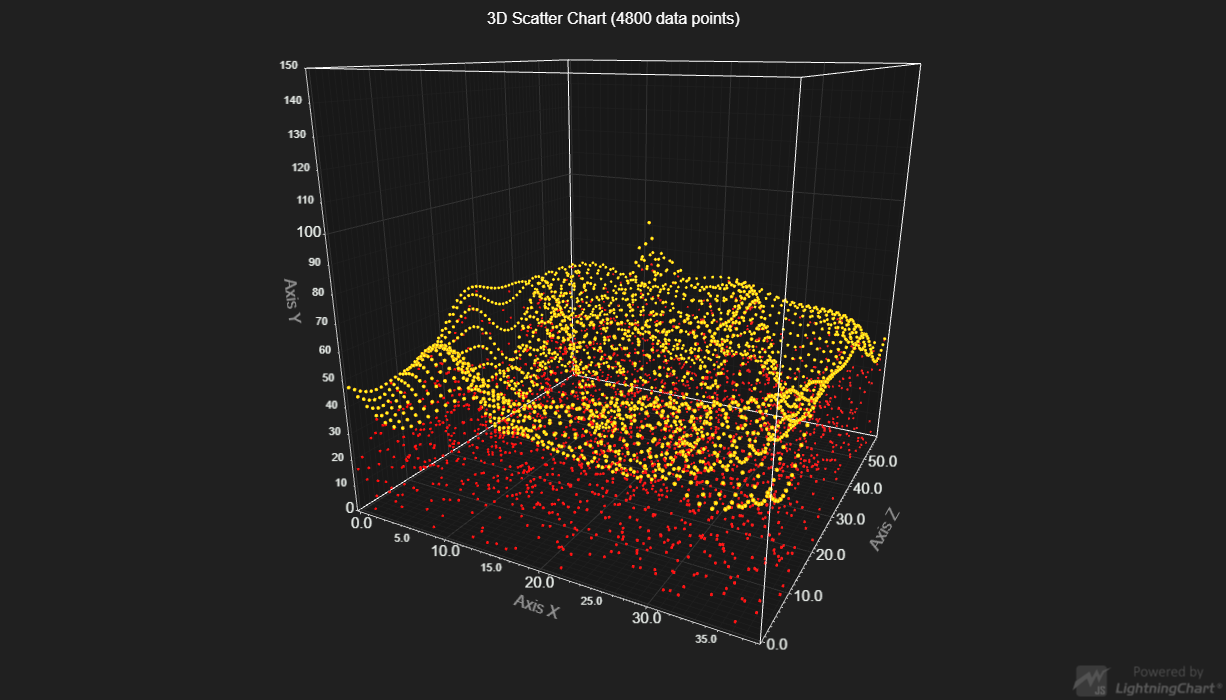
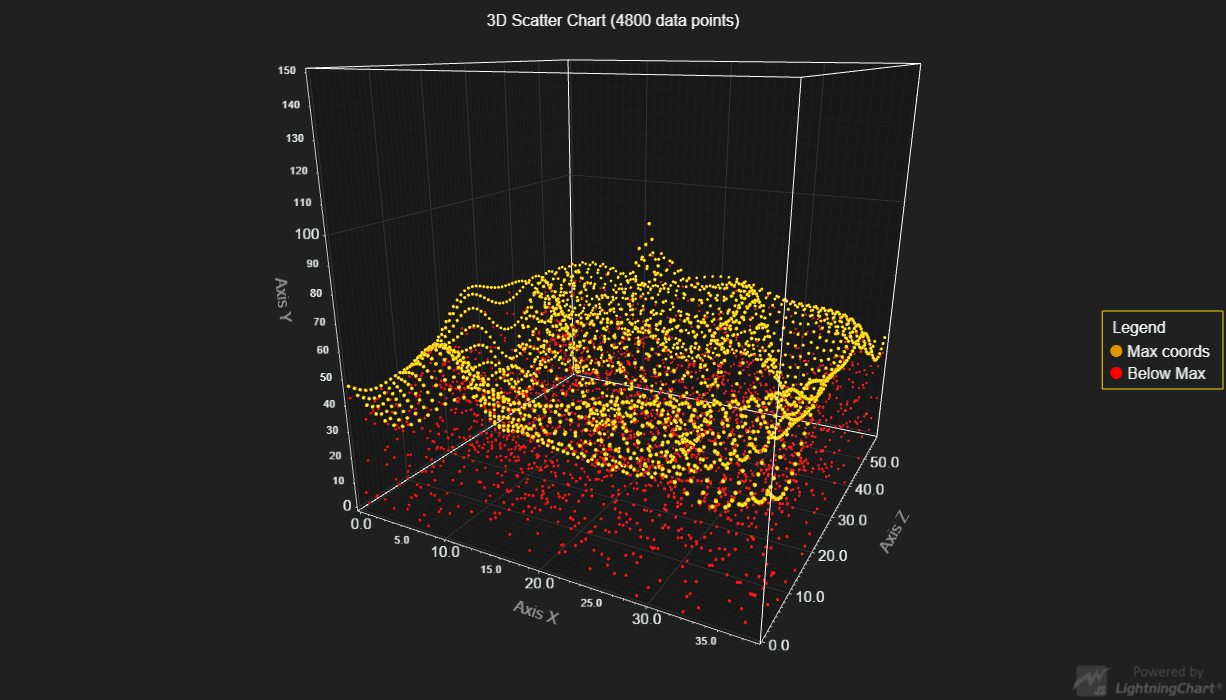
LCJS 3.0.0

diff --git a/src/index.js b/src/index.js
@@ -36,6 +36,7 @@ const pointSeriesMaxCoords = chart3D.addPointSeries()
         size: 10,
         shape: 'sphere'
     }))
+    .setName('Max coords')
 
 // Create another Point Series for rendering other Y coords than Max.
 const pointSeriesOtherCoords = chart3D.addPointSeries()
@@ -44,7 +45,10 @@ const pointSeriesOtherCoords = chart3D.addPointSeries()
         size: 5,
         shape: 'cube'
     }))
+    .setName('Below Max')
 
+// Add LegendBox to chart.
+chart3D.addLegendBox().add(chart3D)
 
 // Generate heatmap data for depicting amount of scattered points along the XZ plane.
 let totalPointsAmount = 0

diff --git a/README.md b/README.md
@@ -77,6 +77,6 @@ Direct developer email support can be purchased through a [Support Plan][4] or b
 © Arction Ltd 2009-2020. All rights reserved.
 
 
-[3D chart]: https://www.arction.com/lightningchart-js-api-documentation/v2.2.0/classes/chart3d.html
-[3D point series]: https://www.arction.com/lightningchart-js-api-documentation/v2.2.0/classes/pointseries3d.html
+[3D chart]: https://www.arction.com/lightningchart-js-api-documentation/v3.0.0/classes/chart3d.html
+[3D point series]: https://www.arction.com/lightningchart-js-api-documentation/v3.0.0/classes/pointseries3d.html
 
